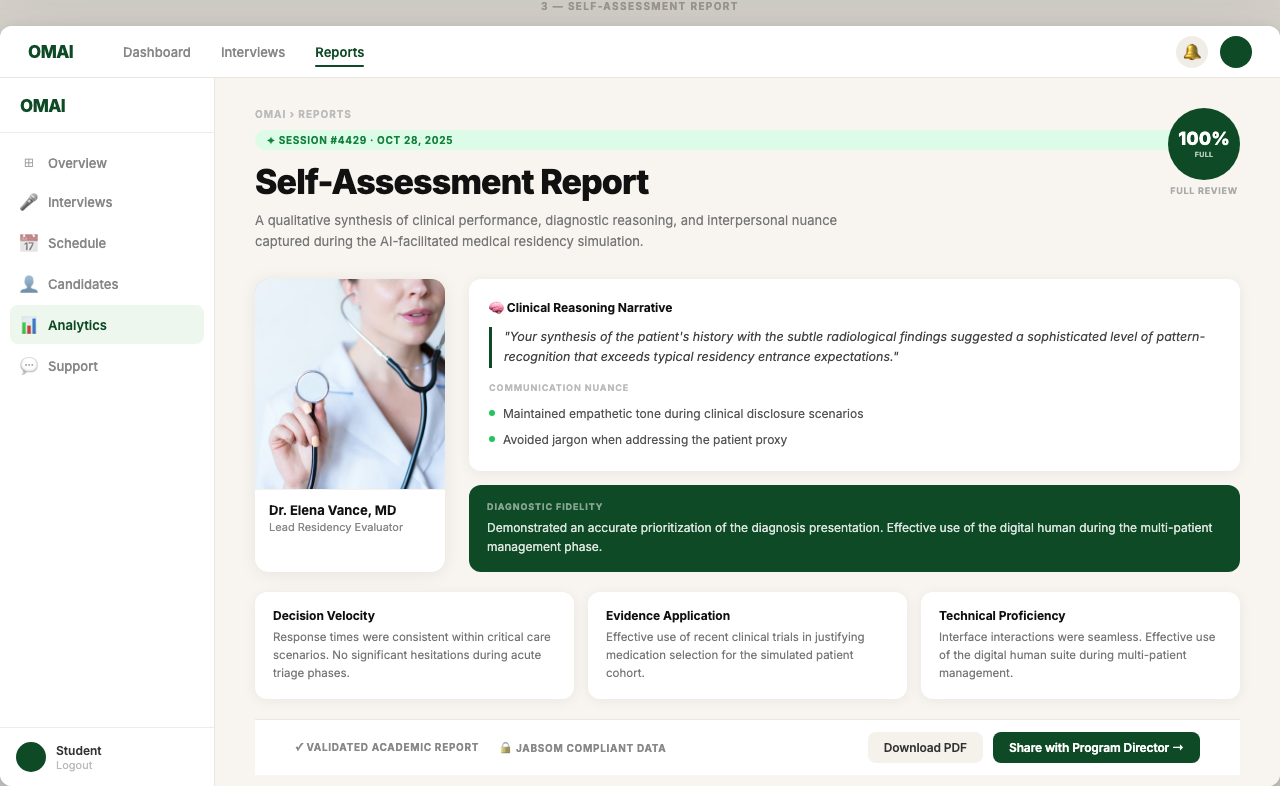
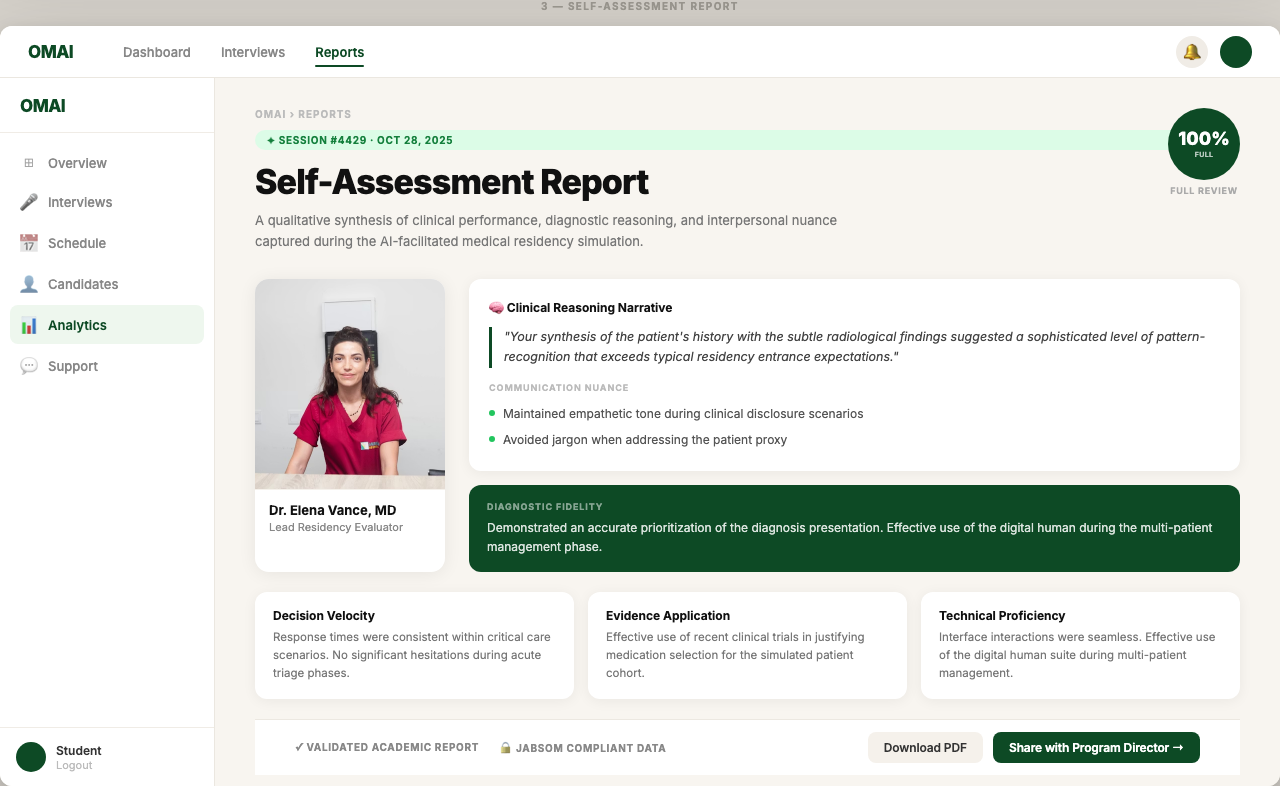
Fix screen 3 doctor photo: use proper headshot, fix lip crop

Changed region(s): [[0.1875, 0.3359, 0.375, 0.6412]]

diff --git a/omai-interview/mockup.html b/omai-interview/mockup.html
@@ -128,6 +128,9 @@ body {
   object-position: center top;
   display: block;
 }
+.report-doc-photo img {
+  object-position: center center;
+}
 .doctor-silhouette {
   position: absolute;
   bottom: 0;
@@ -1158,7 +1161,7 @@ body {
             <!-- Doctor photo -->
             <div class="report-doc-card">
               <div class="report-doc-photo doctor-photo-wrap">
-                <img src="https://images.unsplash.com/photo-1638202993928-7267aad84c31?auto=format&fit=crop&w=400&q=85" alt="Dr. Elena Vance" />
+                <img src="https://images.unsplash.com/photo-1742436707321-33fed05590bb?auto=format&fit=crop&crop=faces&w=400&h=420&q=85" alt="Dr. Elena Vance" />
               </div>
               <div class="report-doc-info">
                 <div class="report-doc-name">Dr. Elena Vance, MD</div>
